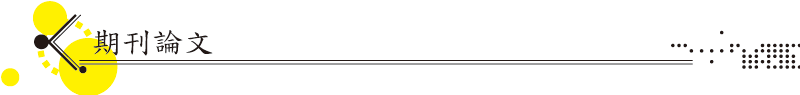
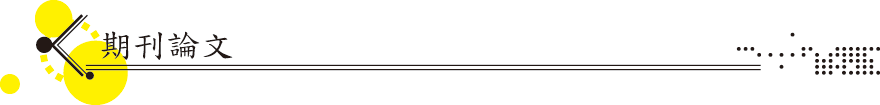
期刊與研討會以排版完成，但遇到字太多會跑掉的問題尚未解決

diff --git a/journal.html b/journal.html
@@ -25,11 +25,11 @@
 		<!-- /.header_content -->
   </header>
 	<section class="main_container">
-		<img class="header_img" src="image/article_title" alt="期刊論文" />
-		<header class="main_title">
-			<h1>已接受及刊登</h1>
-		</header>
-		<section class="articles">
+		<img class="header_img" src="image/article_title" alt="期刊論文" />		
+		<section class="published_articles">
+			<header class="article_title">
+				<h1>已接受及刊登</h1>
+			</header>
 			<article class="thesis">
 				<h1>01</h1>
 				<p>(1) Yuh-Ming Cheng, Sheng-Huang Kuo, Shi-Jer Lou, Ru-Chu Shih, “The Construction of an Online Competitive Game-Based Learning System for Junior High School Students “, Turkish Online Journal of Educational Technology, 11 (2), 2012, 214-227.(SSCI)</p>
@@ -37,9 +37,43 @@
 			<article class="thesis">
 				<h1>02</h1>
 				<p>(2) Yuh-Ming Cheng , Lih-Shyang Chen, ,Sheng-Feng Weng, Yong-Guo Chen, Chyi-Her Lin,” Building a General Purpose Pedagogical Agent in a Web-Based Multimedia Clinical Simulation System for Medical Education”, IEEE Transactions on Learning Technologies, July-September ,Vol. 2, No. 3, 2009, 216-225. (SSCI)</p>
-			</article>	
+			</article>
+			<article class="thesis">
+				<h1>03</h1>
+				<p> (3) Lih-Shyang Chen, Yuh-Ming Cheng ,Sheng-Feng Weng, Yong-Guo Chen, Chyi-Her Lin, “Applications of a Time Sequence Mechanism In the simulation Cases of a web-based Medical PBL System”, Journal of Educational Technology & Society, 12 (1), 2009, 161-169. (SSCI)</p>
+			</article>
+			<article class="thesis">
+				<h1>04</h1>
+				<p>(4) 程毓明，郭勝煌，” 遊戲式學習對學習成效影響之探討：以國中綜合活動童軍課程為例”，工業科技教育學刊，Vol. 4，2011，27-34。（國科會科教處重要期刊）</p>
+			</article>
+			<article class="thesis">
+				<h1>05</h1>
+				<p>(5) Yuh-Ming Cheng, Shi-Jer Lou, Sheng-Huang Kuo, Ru-Chu Shih, “Effect of Applying Digital Game-Based Learning to Environmental Education Course for Elementary School Students”, Australasian Journal of Educational Technology, has been accepted, in pressing. (SSCI)</p>
+			</article>
+			<article class="thesis">
+				<h1>06</h1>
+				<p>(6) Yuh-Ming Cheng, Sheng-Huang Kuo, Shi-Jer Lou, Ru-Chu Shih, “Effect of Applying Online PBL Case System to Multiple Disciplines of Medical Education”, Turkish Online Journal of Educational Technology, has been accepted, will publish in Oct. 2012. (SSCI)</p>
+			</article>
+			<article class="thesis">
+				<h1>07</h1>
+				<p>(7) Yuh-Ming Cheng , Peng-Fei Chen, “Autonomous Pedagogical Agents to E-Learning in Elementary School”, Journal of Information Hiding and Multimedia Signal Processing, has been accepted,will pulish in 2013</p>
+			</article>
+		</section>		
+		<!-- /.published_articles -->
+		<section class="submission_articles">
+			<header class="article_title">
+				<h1>已投稿</h1>
+			</header>
+			<article class="thesis">
+				<h1>01</h1>
+				<p>Yuh-Ming Cheng, Shi-Jer Lou, Sheng-Huang Kuo,” A study on Windows Live Social Network Integrated into Information Instruction in Elementary Schools”, Behaviour & Information Technology, submitted, Jun., 2012. (SSCI)</p>
+			</article>
+			<article class="thesis">
+				<h1>02</h1>
+				<p>(2) Yuh-Ming Cheng, Sheng-Huang Kuo, Shi-Jer Lou, Ru-Chu Shih, “Development and Implementation of U-msg for College students' English Learning “, British Journal of Educational Technology, has been submitted. (SSCI)</p>
+			</article>
 		</section>
-		<!-- /.articles -->
+		<!-- /.submission_articles -->
 	</section>
 	<!-- /.main_container -->
 </body>

diff --git a/styles/journal.css b/styles/journal.css
@@ -2,16 +2,21 @@
 
 body {
 	font-size:16px;
-	font-family:"Book Antiqua", "微軟正黑體";
+	font-family:"微軟正黑體";
 	font-weight:normal;	
 	width:100%;
 	height:100%;
   padding-bottom:30px;
 }
 
+.main_container {
+	margin:0 auto;
+  width:880px;
+}
+
 body > header {
 	height:80px;
-	width:800px;
+	width:880px;
 	margin:0 auto;
 	margin-top:80px;
 	margin-bottom:30px;
@@ -23,25 +28,26 @@ body > header {
 	width:80px;
 	float:left;
 	display:block;
+	margin-left:20px;
 }
 
 .header_content {
 	background-image:url("../image/article_hbg.png"); 
 	background-repeat:no-repeat;
 	float:right;
-	width:700px;
-	height:120px;
-	margin-top:-30px;
+	width:780px;
+	height:140px;
+	margin-top:-36px;
+	margin-right:-5px;
 }
 
 .header_content ul {
-	margin-top:90px;
-	margin-left:26px;
+	margin-top:96px;
+	margin-left:36px;
 }
 
 .header_content li {
-	list-style:square;
-	
+	list-style:square;	
 	font-size:20px;
 	float:left;
 	margin-right:40px;	
@@ -52,39 +58,43 @@ body > header {
 	text-decoration:none;
 }
 
+.header_content a:hover, .header_content a:focus {
+	text-decoration:underline;
+}
+
 .header_img {	
 	background-image:url("../image/article_title.png");
 	background-repeat:no-repeat;	
-	margin-left:-42px;
+	margin-left:-35px;
 }
 
-.main_container {
-	margin:0 auto;
-  width:770px;
-}
-
-.main_title {	
+.article_title {	
 	background:#B5B5B6;
+	font-size:17px;
 	width:100%;
 	padding-top:3px;
 	padding-bottom:3px;
-	padding-left:15px;
-	margin-top:8px;
+	margin-bottom:30px;
 }
 
-.articles {
-	padding-top:20px;
+.article_title h1 {
+	margin-left:20px;
+}
+
+.published_articles, .submission_articles {
+	padding-top:10px;
 }
 
 .thesis {
 	margin-bottom:30px;
+	height:60px;
 }
 
 .thesis h1 {
-	font-family:"微軟正黑體";
-	border-right:1px solid RGBA(0, 0, 0, 0.9);
+	border-right:3px solid RGBA(0, 0, 0, 0.4);
+	font-family:"微軟正黑體";	
 	font-size:43px;
-	float:left;
+	float:left;	
 	margin-right:10px;
 	padding-top:5px;
 	padding-bottom:5px;
@@ -92,5 +102,5 @@ body > header {
 }
 
 .thesis p {
-	line-height:18px;
+	line-height:18px;	
 }
